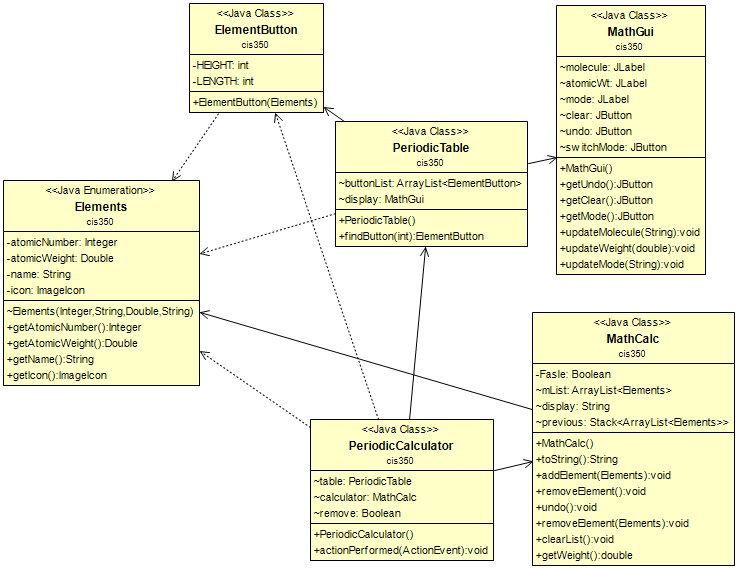
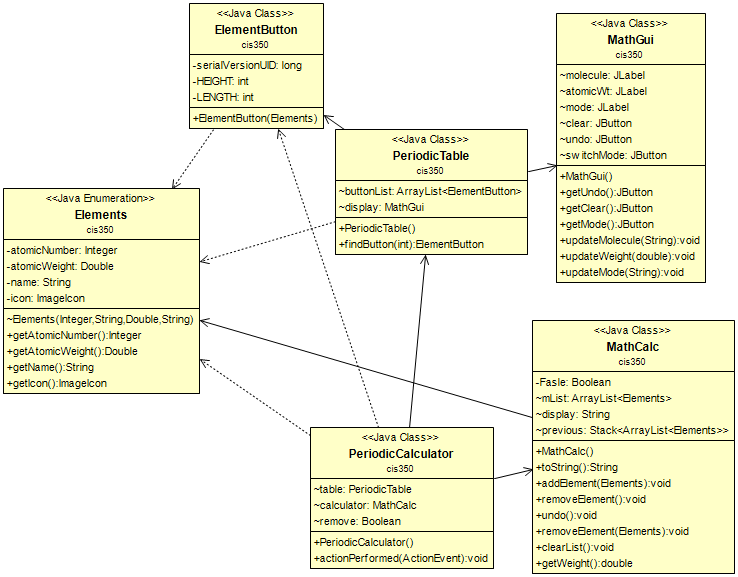
Checkstyle and JavaDocs fixes for elements and element button.

diff --git a/src/cis350/Elements.java b/src/cis350/Elements.java
@@ -1,9 +1,26 @@
+/**
+ * Elements is used to create a list of the elements in the 
+ * periodic table to build the periodic table.
+ * 
+ * @since 10/18/2017
+ * @author Greg, Eric, Natalie, Richard
+ * @version 1.0
+ */
 package cis350;
 
 import javax.swing.ImageIcon;
 
+/**
+ * The enum sets a list of the elements, their weight 
+ * and an image of the element from a periodic table.
+ * @param
+ */
 public enum Elements {
 
+	/**
+	 * The elements, their weight and the corresponding image.
+	 * @param
+	 */
 	H(1, "Hydrogen", 1.008, "src/E1.png"),
 	He(2, "Helium", 4.0026, "src/E2.png"),
 	Li(3, "Lithium", 6.94, "src/E3.png"),
@@ -131,32 +148,62 @@ public enum Elements {
 	
 	
 	
-	
+	/** The atomic number of the element. **/
 	private final Integer atomicNumber;
+	
+	/** The atomic weight of the element. **/
 	private final Double atomicWeight;
+	
+	/** The name of the element. **/
 	private final String name;
+	
+	/** The icon used by this element for the GUI. **/
 	private final ImageIcon icon;
 	
-	Elements(Integer number, String formalName, Double weight, String icon){
+	/**
+	 * The constructor for the Elements class. It sets the number, 
+	 * the name and the weight. It loads the element's icon.
+	 * @param number The atomic number of the element.
+	 * @param fName The name of the element.
+	 * @param weight The atomic weight of the element.
+	 * @param icon The image of the element in our periodic table.
+	 */
+	Elements(final Integer number, final String fName, 
+			final Double weight, final String icon) {
 		atomicNumber = number;
-		name = formalName;
+		name = fName;
 		atomicWeight = weight;
 		this.icon = new ImageIcon(icon);
 		
 	}
 
+	/**
+	 * Gets the atomic number of the element.
+	 * @return atomicNumber.
+	 */
 	public Integer getAtomicNumber() {
 		return atomicNumber;
 	}
 	
+	/**
+	 * Gets the atomic weight of the element.
+	 * @return atomicWeight.
+	 */
 	public Double getAtomicWeight() {
 		return atomicWeight;
 	}
 	
+	/**
+	 * Gets the name of the element.
+	 * @return name.
+	 */
 	public String getName() {
 		return name;
 	}
-	
+	/**
+	 * Gets the icon image for the element.
+	 * @return icon.
+	 */
 	public ImageIcon getIcon() {
 		return icon;
 	}

diff --git a/src/cis350/ElementButton.java b/src/cis350/ElementButton.java
@@ -1,14 +1,42 @@
+/**
+ * ElementButton is used to produce the element's JButton in our periodic table.
+ * 
+ * @since 10/18/2017
+ * @author Greg, Eric, Natalie, Richard
+ * @version 1.0
+ */
+
 package cis350;
 
 import java.awt.Insets;
 
 import javax.swing.JButton;
 
-public class ElementButton extends JButton{
+/**
+ * Creates the JButton for the elements used in the periodic table.
+ * @param
+ */
+public class ElementButton extends JButton {
+	
+	private static final long serialVersionUID = 999;
+	
+	/**
+	 *  Value of the height for the JButton.
+	 *  @param
+	 */
 	private final int HEIGHT = 43;
+	
+	/**
+	 * Value of the length for the JButton.
+	 * @param
+	 */
 	private final int LENGTH = 50;
 	
-	public ElementButton(Elements element){
+	/**
+	 * This is the class constructor. 	
+	 * @param element gets the element from the periodic table.
+	 */
+	public ElementButton(final Elements element) {
 		setSize(HEIGHT, LENGTH);
 		this.setIcon(element.getIcon());
 		this.setMargin(new Insets(0, 0, 0, 0));
